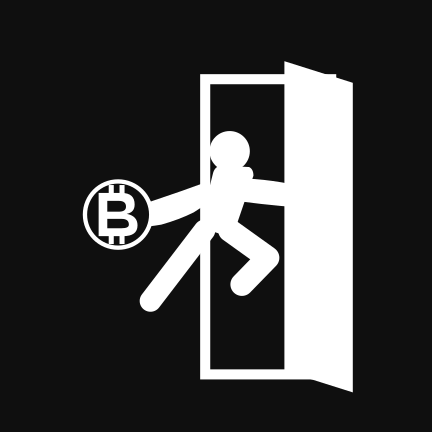
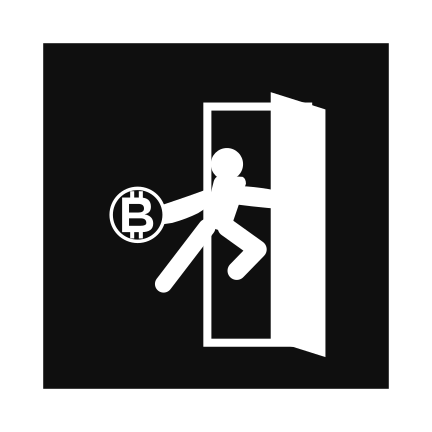
app version update

diff --git a/src/security/freshInstall.ts b/src/security/freshInstall.ts
@@ -1,0 +1,83 @@
+/**
+ * Fresh-install detection + secure-store reset.
+ *
+ * Why this exists: on iOS, the OS Keychain can persist entries across app
+ * uninstalls (notably in the iOS Simulator, and on real devices that have
+ * retained the app's keychain items for any reason). That means after the
+ * user deletes and reinstalls the app, `hasAccount()` in auth.ts returns
+ * `true` based on stale keychain data, and the sign-in screen incorrectly
+ * renders the login UI instead of the create-account UI.
+ *
+ * Android's Keystore is wiped on uninstall, so the bug only manifests on iOS.
+ *
+ * The fix: store an "install marker" in AsyncStorage, which lives in the
+ * app's sandbox directory and is *guaranteed* to be wiped on iOS uninstall.
+ * On boot, if the marker is missing, this is a fresh install — we clear any
+ * stale secure-store entries so the sign-in flow behaves like a real
+ * first-launch.
+ *
+ * ─────────────────────────────────────────────────────────────────────────
+ *  Preserves credentials across app updates
+ * ─────────────────────────────────────────────────────────────────────────
+ * The marker is written exactly once per app install. Both of the update
+ * paths the app supports keep the app sandbox intact, so the marker (and
+ * therefore the credentials) survive:
+ *
+ *   • App Store / TestFlight update (native version bump) — sandbox preserved
+ *   • EAS Update (OTA JS hot reload via the `updates.url` in app.json) —
+ *     sandbox preserved
+ *
+ * Only a full uninstall clears the sandbox, which is the *only* situation
+ * where the keychain could carry stale data and we need to reset.
+ *
+ * Behavior matrix:
+ *
+ *   Event                                 AsyncStorage   Wipe?
+ *   ────────────────────────────────────  ─────────────  ─────
+ *   First launch (truly fresh install)    empty          yes (no-op)
+ *   App relaunch (cold start)             preserved      no
+ *   App Store / TestFlight update         preserved      no
+ *   EAS Update (OTA JS hot reload)        preserved      no
+ *   Uninstall → reinstall (iOS bug case)  wiped          yes
+ *   iOS "Erase All Content & Settings"    wiped          yes
+ */
+import AsyncStorage from '@react-native-async-storage/async-storage';
+
+import { deleteItem } from './secureStore';
+import { deleteAccount } from './auth';
+import { clearAllocations } from './preferencesStore';
+import { CREDS_INDEX_KEY } from './credentialVault';
+
+const INSTALL_MARKER_KEY = 'coinescape.install.v1';
+
+/**
+ * Returns true the first time it is called for a given app install.
+ * On every subsequent call within the same install — including after App
+ * Store updates and EAS Updates — it returns false, so credentials are
+ * preserved across updates.
+ *
+ * Side effect: writes the marker to AsyncStorage if it was missing. The
+ * write is local-only; if it fails, the next launch will simply re-run the
+ * wipe, which is idempotent.
+ */
+export async function detectFreshInstall(): Promise<boolean> {
+  const existing = await AsyncStorage.getItem(INSTALL_MARKER_KEY);
+  if (existing !== null) return false;
+  await AsyncStorage.setItem(INSTALL_MARKER_KEY, String(Date.now()));
+  return true;
+}
+
+/**
+ * Best-effort wipe of every secure-store entry the app owns. Safe to call
+ * even when nothing is stored — each `delete*` is a no-op on a missing key.
+ *
+ * Called ONLY on detected fresh install to discard keychain entries carried
+ * over from a previous iOS install. Never called in response to an update.
+ */
+export async function wipeAllSecureStoreEntries(): Promise<void> {
+  await Promise.allSettled([
+    deleteAccount(),
+    clearAllocations(),
+    deleteItem(CREDS_INDEX_KEY),
+  ]);
+}

diff --git a/src/store/AppStore.tsx b/src/store/AppStore.tsx
@@ -19,6 +19,7 @@ import { BalanceMapDetailed, ChainOption, ExchangeManager, isLiveSupported } fro
 import {
   ApiCredentials,
   deleteCredentials,
+  detectFreshInstall,
   hasAccount as hasLocalAccount,
   listStoredCredentialExchanges,
   loadAllocations,
@@ -27,6 +28,7 @@ import {
   retrieveCredentials,
   saveAllocations,
   storeCredentials,
+  wipeAllSecureStoreEntries,
 } from '@/security';
 import {
   defaultAllocationTargets,
@@ -216,13 +218,30 @@ export function AppProvider({ children }: { children: ReactNode }) {
   // Detect an existing on-device account at startup.
   useEffect(() => {
     let cancelled = false;
-    hasLocalAccount()
-      .then((exists) => {
+    (async () => {
+      try {
+        // iOS Keychain can persist entries across app uninstalls, so on a
+        // fresh install the keychain may still report an existing account.
+        // AsyncStorage lives in the app sandbox and IS wiped on iOS uninstall,
+        // so we use it as the source of truth for "have we ever run before?".
+        if (await detectFreshInstall()) {
+          await wipeAllSecureStoreEntries();
+        }
+        const exists = await hasLocalAccount();
         if (!cancelled) setHasAccount(exists);
-      })
-      .finally(() => {
+      } catch {
+        // If the detection itself fails, fall back to the keychain check so
+        // the user can still log in to an existing account.
+        try {
+          const exists = await hasLocalAccount();
+          if (!cancelled) setHasAccount(exists);
+        } catch {
+          if (!cancelled) setHasAccount(false);
+        }
+      } finally {
         if (!cancelled) setAuthChecked(true);
-      });
+      }
+    })();
     return () => {
       cancelled = true;
     };

diff --git a/src/app/sign-in.tsx b/src/app/sign-in.tsx
@@ -1,6 +1,7 @@
 import { useRouter } from 'expo-router';
 import { useMemo, useState } from 'react';
 import {
+  ActivityIndicator,
   KeyboardAvoidingView,
   Platform,
   ScrollView,
@@ -19,7 +20,7 @@ import { useAppStore } from '@/store/AppStore';
 
 export default function SignInScreen() {
   const router = useRouter();
-  const { hasAccount, login, register } = useAppStore();
+  const { hasAccount, authChecked, login, register } = useAppStore();
 
   // First launch (no local account) → create-account mode; otherwise login.
   const isCreating = !hasAccount;
@@ -36,6 +37,20 @@ export default function SignInScreen() {
     if (isCreating && confirm.length === 0) return false;
     return true;
   }, [busy, username, password, confirm, isCreating]);
+
+  // While the AppStore is detecting a fresh install (iOS) and reading the
+  // keychain, render a quiet loader so the UI doesn't flash between
+  // "create-account" and "login" on first launch. Kept below the hooks so
+  // the rules-of-hooks ordering is preserved across renders.
+  if (!authChecked) {
+    return (
+      <Screen>
+        <View style={styles.loadingWrap}>
+          <ActivityIndicator color={Brand.accent} />
+        </View>
+      </Screen>
+    );
+  }
 
   const handleSubmit = async () => {
     setError(null);
@@ -160,6 +175,7 @@ export default function SignInScreen() {
 
 const styles = StyleSheet.create({
   flex: { flex: 1 },
+  loadingWrap: { flex: 1, alignItems: 'center', justifyContent: 'center' },
   content: {
     flexGrow: 1,
     paddingHorizontal: Spacing.four,

diff --git a/scripts/generate-icons.js b/scripts/generate-icons.js
@@ -61,10 +61,22 @@ const MONO_SVG = `<?xml version="1.0" encoding="UTF-8"?>
 
 /** target file -> { svg, size } */
 // SVG source is read once so every PNG derives from the same vector master.
+// Must be declared before PAD_SVG since the template literal below interpolates it.
 const MASTER_SVG = fs.readFileSync(SRC, 'utf8');
+
+// Android-only render: nest the master inside a 540x540 canvas with the 432x432
+// content centered at (54, 54). The rasterizer then downsizes the whole canvas
+// to 432px, so the visible mark occupies 80% of the final PNG (432 * 432/540) —
+// 20% smaller on Android launchers, while iOS / splash / favicon / web stay
+// identical because they rasterize MASTER_SVG directly.
+const PAD_SVG = `<?xml version="1.0" encoding="UTF-8"?>
+<svg xmlns="http://www.w3.org/2000/svg" width="540" height="540" viewBox="0 0 540 540">
+  <svg width="432" height="432" x="54" y="54" viewBox="0 0 600 600">${MASTER_SVG}</svg>
+</svg>`;
+
 const TARGETS = [
   { out: 'icon.png', svg: MASTER_SVG, size: 1024 },
-  { out: 'android-icon-foreground.png', svg: MASTER_SVG, size: 432 },
+  { out: 'android-icon-foreground.png', svg: PAD_SVG, size: 432 },
   { out: 'android-icon-background.png', svg: BG_SVG, size: 432 },
   { out: 'android-icon-monochrome.png', svg: MONO_SVG, size: 432 },
   { out: 'splash-icon.png', svg: MASTER_SVG, size: 200 },

diff --git a/src/security/credentialVault.ts b/src/security/credentialVault.ts
@@ -39,6 +39,8 @@ const keyFor = (exchangeId: string) => `coinescape.creds.${exchangeId}.v1`;
  * ids (no secrets), so it is stored as plain JSON.
  */
 const INDEX_KEY = 'coinescape.creds.index.v1';
+/** Exported so the fresh-install reset can clear stale index entries on iOS. */
+export const CREDS_INDEX_KEY = INDEX_KEY;
 
 async function readIndex(): Promise<string[]> {
   return (await getJSON<string[]>(INDEX_KEY)) ?? [];

diff --git a/src/security/index.ts b/src/security/index.ts
@@ -1,6 +1,7 @@
 export * from './auth';
 export * from './credentialVault';
 export * from './preferencesStore';
+export { detectFreshInstall, wipeAllSecureStoreEntries } from './freshInstall';
 export {
   PBKDF2_ITERATIONS,
   decryptString,
